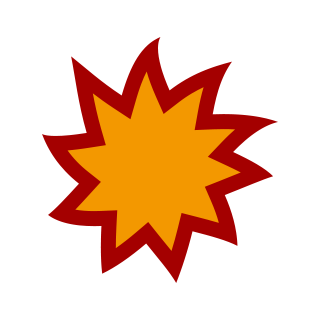
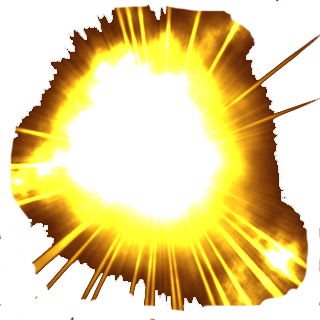
2019.4.16
・画像更新
　爆発エフェクトをきれいにしました
　爆発エフェクトの大きさと角度はランダムにしました。

・射撃モード更新-2
　今は落下予測地点を使って砲弾落下位置を予測ことが可能になりました。

diff --git a/ProjectWarshipbattle/source/Weapon.cpp b/ProjectWarshipbattle/source/Weapon.cpp
@@ -8,6 +8,16 @@ Weapon::~Weapon()
 {
 }
 
+Coordinate<double> Weapon::ReferRealCoord(Coordinate<double> Coord, double r) {
+	Coordinate<double> temp;
+	temp.x = cos(radianOnZ + r) * relativeCoordX -
+		sin(radianOnZ + r) * relativeCoordZ + Coord.x;
+	temp.z= cos(radianOnZ + r) * relativeCoordZ +
+		sin(radianOnZ + r) * relativeCoordX + Coord.z;
+	temp.y = high;
+	return temp;
+}
+
 Ammo Weapon::Shoot(double x, double z,double r) {
 	lastShootedTime = GetTickCount();
 
@@ -42,7 +52,7 @@ bool Weapon::ReferShootable() {
 bool Weapon::Pull(bool up) {
 	if (up) {
 		if (radianOnY <= maxRadianOnY) {
-			radianOnY += MathAndPhysics::PI*(double)(1.0 / 180.0);
+			radianOnY += MathAndPhysics::PI*(double)(0.25 / 180.0);
 			return false;
 		}
 		radianOnY = maxRadianOnY;
@@ -50,7 +60,7 @@ bool Weapon::Pull(bool up) {
 	}
 	else {
 		if (radianOnY >= 0) {
-			radianOnY -= MathAndPhysics::PI*(double)(1.0 / 180.0);
+			radianOnY -= MathAndPhysics::PI*(double)(0.25 / 180.0);
 			return false;
 		}
 		radianOnY = 0;

diff --git a/ProjectWarshipbattle/source/Weapon.h b/ProjectWarshipbattle/source/Weapon.h
@@ -35,6 +35,13 @@ public:
 	double ReferMaxHP() { return maxHeartPoint; }
 	double ReferArmorOntheSide() { return armorOntheSide; }
 	double ReferArmorOntheTop() { return armorOntheTop; }
+	double ReferInitialSpeed() { return initialSpeed; }
+	Coordinate<double> ReferRealCoord(Coordinate<double> Coord, double r);
+	RadianNeededIn3D ReferRadian() {
+		RadianNeededIn3D temp;
+		temp.y = radianOnY; temp.z = radianOnZ;
+		return temp;
+	}
 
 	void SetCoolDownTime(int time) { reloadTime = time; }
 	void Turn(bool right) {
